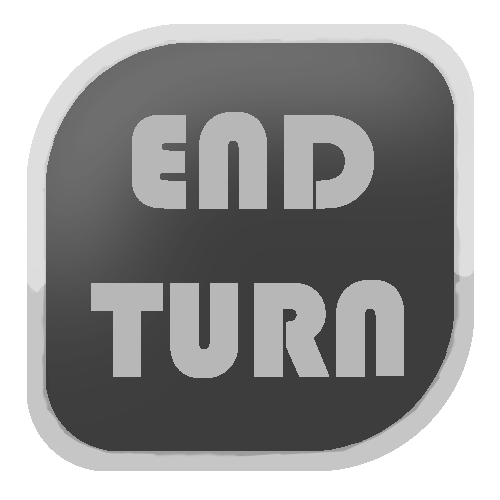
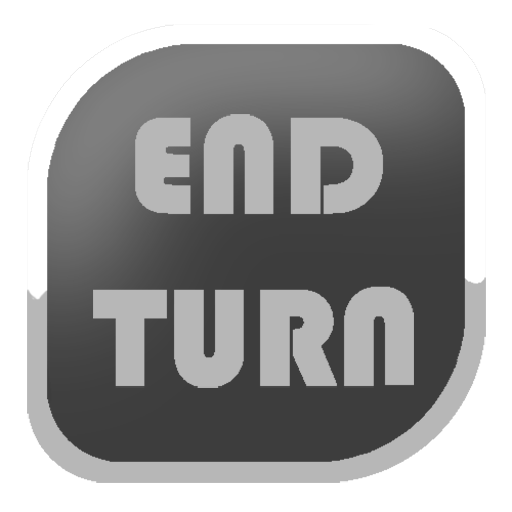
Fixed the pngs so they show up properly and do not obscure the other object.

diff --git a/ProjectGray/ProjectGray/GameViewController.mm b/ProjectGray/ProjectGray/GameViewController.mm
@@ -308,23 +308,23 @@ GLfloat gCubeVertexData[216] =
     guiVertices[0] = -1 * guiSize; //x
     guiVertices[1] = -1 * guiSize; //y
     guiVertices[2] = 0;  //u
-    guiVertices[3] = 0; //v
+    guiVertices[3] = 1; //v
     
     guiVertices[4] = 1 * guiSize;  //x
     guiVertices[5] = -1 * guiSize; //y
     guiVertices[6] = 1; //u
-    guiVertices[7] = 0;  //v
+    guiVertices[7] = 1;  //v
     
     guiVertices[8] = -1 * guiSize;  //x
     guiVertices[9] = 1 * guiSize;   //y
     guiVertices[10] = 0; //u
-    guiVertices[11] = 1;  //v
+    guiVertices[11] = 0;  //v
     
     //Top Face
     guiVertices[12] = 1 * guiSize;  //x
     guiVertices[13] = 1 * guiSize;  //y
     guiVertices[14] = 1;  //u
-    guiVertices[15] = 1;  //v
+    guiVertices[15] = 0;  //v
 
     
     guiElements[0] = 0;
@@ -350,7 +350,7 @@ GLfloat gCubeVertexData[216] =
     
     glBindVertexArrayOES(0);
     
-    _texture = [self setupTexture:@"item_powerup_fish.png"];
+    _texture = [self setupTexture:@"EndTurn.png"];
     glActiveTexture(GL_TEXTURE0);
     glBindTexture(GL_TEXTURE_2D, _texture);
     GLuint loc = glGetUniformLocation(_guiProgram, "texture");
@@ -425,20 +425,6 @@ GLfloat gCubeVertexData[216] =
     glClearColor(0.65f, 0.65f, 0.65f, 1.0f);
     glClear(GL_COLOR_BUFFER_BIT | GL_DEPTH_BUFFER_BIT);
     
-    
-    //gui stuff
-    glBlendFunc(GL_SRC_ALPHA, GL_ONE_MINUS_SRC_ALPHA);
-    glEnable( GL_BLEND );
-    
-    glBindVertexArrayOES(_vertexGUIArray);
-    glUseProgram(_guiProgram);
-        
-    glBindBuffer(GL_ARRAY_BUFFER, _vertexGUIBuffer);
-    glBufferData(GL_ARRAY_BUFFER, sizeof(guiVertices), guiVertices, GL_STATIC_DRAW);
-    glBindBuffer(GL_ELEMENT_ARRAY_BUFFER, guiEbo);
-    glDrawElements(GL_TRIANGLES, 6, GL_UNSIGNED_INT, 0);
-    glDisable(GL_BLEND);
-    
     // Hex stuff
     glBindVertexArrayOES(_vertexHexArray);
     glUseProgram(_hexProgram);
@@ -494,6 +480,19 @@ GLfloat gCubeVertexData[216] =
     glUniformMatrix3fv(uniforms[UNIFORM_NORMAL_MATRIX], 1, 0, _camera.normalMatrix.m);
     
     glDrawArrays(GL_TRIANGLES, 0, testUnit.numModelVerts);
+    
+    //gui stuff
+    glBlendFunc(GL_SRC_ALPHA, GL_ONE_MINUS_SRC_ALPHA);
+    glEnable( GL_BLEND );
+    
+    glBindVertexArrayOES(_vertexGUIArray);
+    glUseProgram(_guiProgram);
+    
+    glBindBuffer(GL_ARRAY_BUFFER, _vertexGUIBuffer);
+    glBufferData(GL_ARRAY_BUFFER, sizeof(guiVertices), guiVertices, GL_STATIC_DRAW);
+    glBindBuffer(GL_ELEMENT_ARRAY_BUFFER, guiEbo);
+    glDrawElements(GL_TRIANGLES, 6, GL_UNSIGNED_INT, 0);
+    glDisable(GL_BLEND);
     
 }
 
